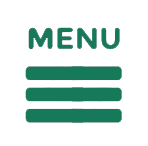
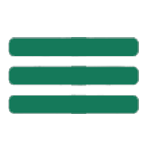
Ajustes no ícone do menu responsivo
- ajuste em .bar-menu-img

diff --git a/index.html b/index.html
@@ -37,6 +37,13 @@
         <!-- LOGO (fluxo normal)-->
         <img class="logo" src="imgs/brand.png" alt="logo-cecipe">
 
+        <!-- MENU RESPONSIVO (aparece para telas menores)-->
+        <div class="bar-menu">
+          <a href="javascript:void(0);" class="" onclick="responsiveMenu()">
+            <img src="imgs/bars-menu.png" class="bar-menu-img" alt="menu de barras">
+          </a>
+        </div>
+
         <!-- BARRA DE NAVEGAÇÃO (position: absolute)-->
         <nav class="nav-bar" id="navBar">
           <a class="nav-link" href="">Home</a>
@@ -46,13 +53,6 @@
           <a class="nav-link" href="#">Downloads</a>
           <a class="nav-link" href="#">Contato</a>
         </nav>
-
-        <!-- MENU RESPONSIVO (aparece para telas menores)-->
-        <div class="bar-menu">
-          <a href="javascript:void(0);" class="" onclick="responsiveMenu()">
-            <img src="imgs/bars-menu.png" class="bar-menu-img" alt="menu de barras">
-          </a>
-        </div>
 
         <!-- ÍCONES REDES SOCIAIS (float: right)-->
         <div class="social-net">

diff --git a/css/styles.css b/css/styles.css
@@ -46,6 +46,19 @@ section {
   width: 25%;
 }
 
+/* MENU RESPONSIVO
+---------------------------- */
+
+.menu .bar-menu {
+  display: none;
+  float: right;
+}
+
+.menu .bar-menu-img {
+  width: 3.5rem;
+  margin-top: .5rem;
+}
+
 /* BARRA DE NAVEGAÇÃO
 ---------------------------- */
 
@@ -68,18 +81,6 @@ section {
 .menu .nav-bar .nav-link:hover {
   color: #003862;
 
-}
-
-/* MENU RESPONSIVO
----------------------------- */
-
-.menu .bar-menu {
-  display: none;
-  float: right;
-}
-
-.menu .bar-menu-img {
-  width: 3.5rem;
 }
 
 /* ÍCONES REDES SOCIAIS
